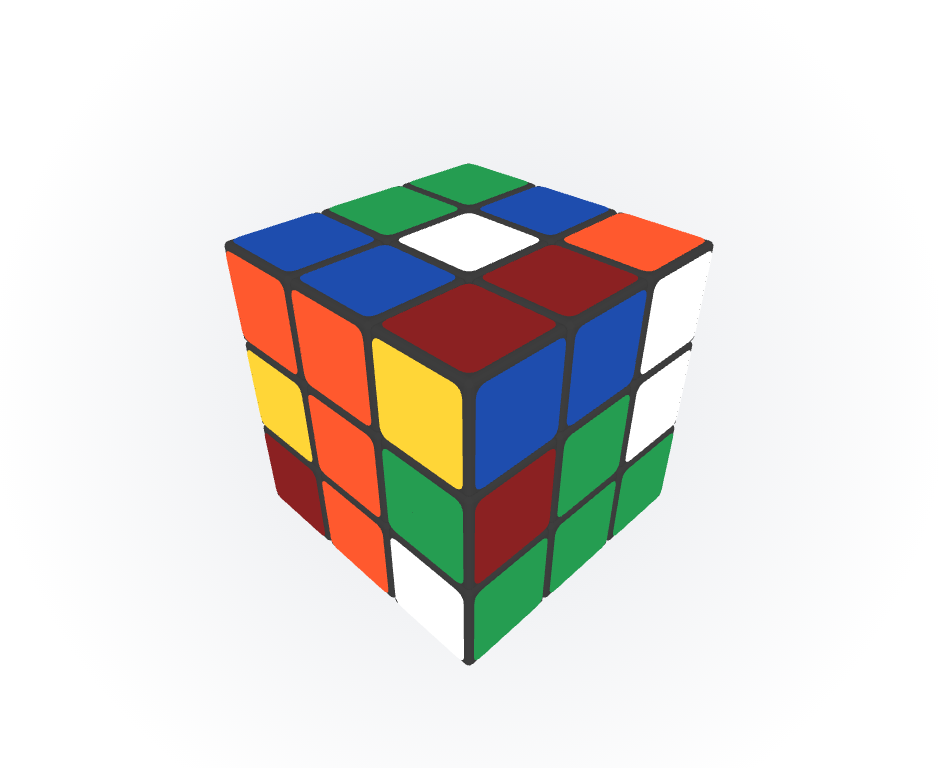
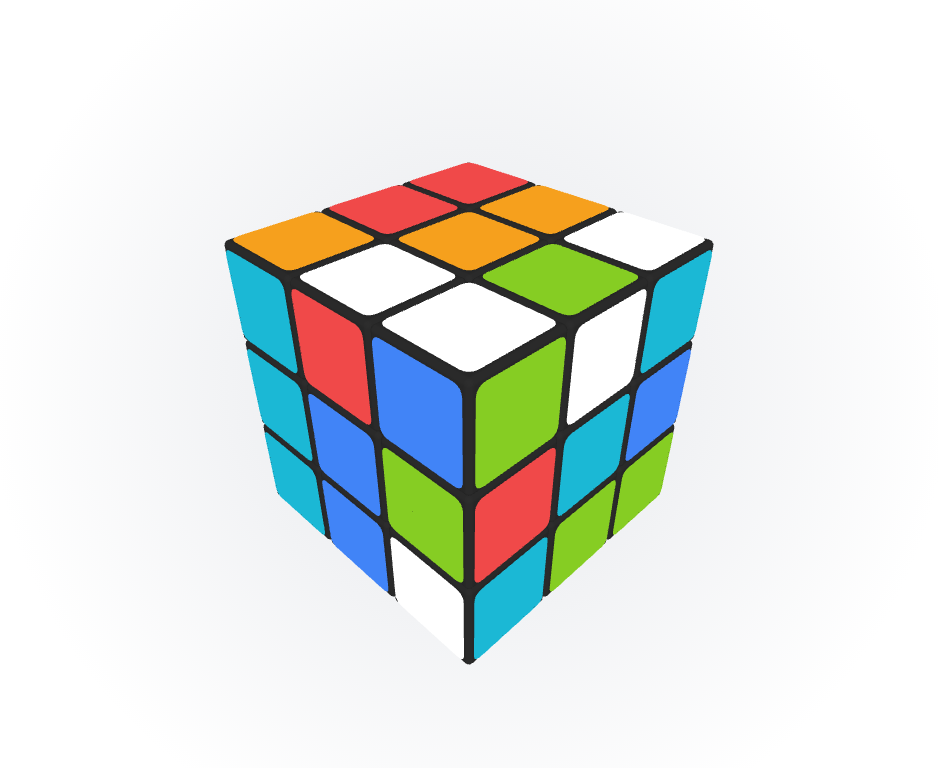
mevcube: recolor cube stickers with the site palette
Brand red, brand-secondary cyan and highlight lime, plus white, warning
amber and info blue from globals.css; cubelet body uses black-accent.
Opposite faces keep strongly contrasting hues. Card image refreshed.

Claude-Session: https://claude.ai/code/session_01UBc9VSNCTAN3ZcSKEhDfEz

Changed region(s): [[0.2164, 0.1875, 0.7729, 0.875]]

diff --git a/apps/website/src/components/mevcube/lib/cube-model.ts b/apps/website/src/components/mevcube/lib/cube-model.ts
@@ -3,18 +3,23 @@ import { roundedEdgeBox, roundedPlane } from "./geometries";
 import { stateToCubelets } from "./cube-state";
 import type { Face } from "./types";
 
-/** Sticker colours (sRGB hex), matching the original MevCube palette. */
+/**
+ * Sticker colours (sRGB hex), drawn from the site palette in globals.css:
+ * brand red, brand-secondary cyan and highlight lime, plus white, warning
+ * amber and info blue. Opposite faces (U/D, R/L, F/B) are kept far apart in
+ * hue so every face stays easy to tell from its neighbours.
+ */
 export const FACE_HEX: Record<Face, string> = {
-  U: "#FEFEFE", // white
-  R: "#891214", // red
-  F: "#199B4C", // green
-  D: "#FED52F", // yellow
-  L: "#FF5525", // orange
-  B: "#0D48AC", // blue
+  U: "#FFFFFF", // white (surface)
+  D: "#F59E0B", // amber (warning)
+  R: "#EF4444", // red (brand)
+  L: "#3B82F6", // blue (info)
+  F: "#84CC16", // lime (highlight)
+  B: "#06B6D4", // cyan (brand-secondary)
 };
 
-/** Colour of the plastic cubelet body. */
-const BODY_HEX = "#333333";
+/** Colour of the plastic cubelet body (site black-accent). */
+const BODY_HEX = "#1A1A1A";
 
 const FACE_TRANSFORMS: Record<
   Face,
